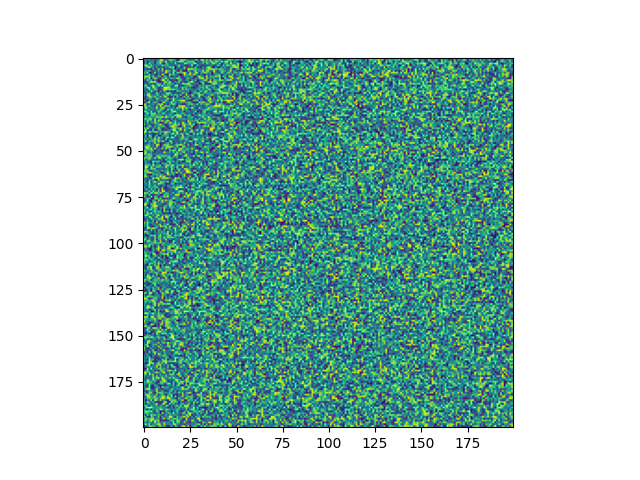
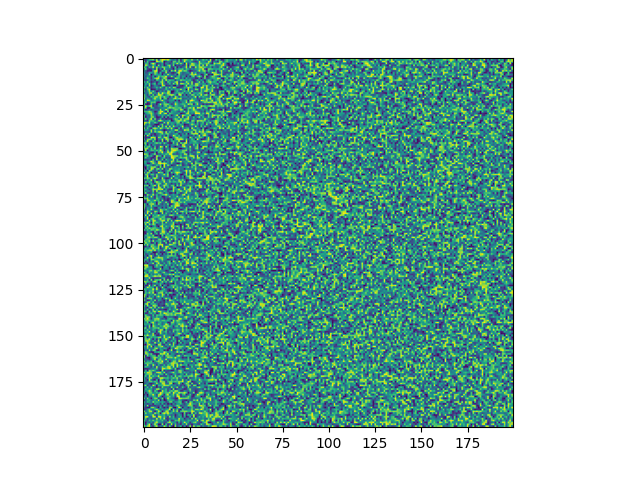
added basic initial mexican hat input class and plotting

diff --git a/RNN_Class.py b/RNN_Class.py
@@ -148,6 +148,35 @@ class ElmanRNN_pred(nn.Module):
         self.tanh = nn.Tanh()
         self.act = nn.Softmax(2)  # activation functions
 
+        # initialize to mexican hat
+        self.init_mexican_hat_weights()
+
+    def mexican_hat_1d(self, size, sigma=1.0):
+        x = torch.linspace(-size // 2, size // 2, steps=size)
+        x2 = x**2
+        mh = (1 - x2 / sigma**2) * torch.exp(-x2 / (2 * sigma**2))  # shape: (size,)
+        return mh
+
+    def init_mexican_hat_weights(self):
+        # broadcast Mexican hat across rows or columns
+        with torch.no_grad():
+            # input weights
+            mh = self.mexican_hat_1d(self.input_dim).unsqueeze(
+                0
+            )  # shape: (1, input_dim)
+            self.input_linear.weight.copy_(mh.repeat(self.hidden_dim, 1))
+            self.input_linear.bias.zero_()
+
+            # hidden weights
+            mh = self.mexican_hat_1d(self.hidden_dim).unsqueeze(0)
+            self.hidden_linear.weight.copy_(mh.repeat(self.hidden_dim, 1))
+            self.hidden_linear.bias.zero_()
+
+            # output weights
+            mh = self.mexican_hat_1d(self.hidden_dim).unsqueeze(0)
+            self.linear3.weight.copy_(mh.repeat(self.output_dim, 1))
+            self.linear3.bias.zero_()
+
     def forward(self, x, h0):
         batch_size, SeqN, _ = x.shape
         ht = h0

diff --git a/Main.py b/Main.py
@@ -277,7 +277,7 @@ def main():
         print("Shape: ", net.input_linear.weight.shape)
         plt.figure()
         plt.imshow(net.input_linear.weight.detach().numpy())
-        plt.savefig("./figures/input_linear_weights.png")
+        plt.savefig("./figures/mh_input_linear_weights.png")
         print()
         # print("Input → Hidden bias:\n", net.input_linear.bias)
 
@@ -286,7 +286,7 @@ def main():
         print()
         plt.figure()
         plt.imshow(net.hidden_linear.weight.detach().numpy())
-        plt.savefig("./figures/hidden_linear_weights.png")
+        plt.savefig("./figures/mh_hidden_linear_weights.png")
         # print("Hidden → Hidden bias:\n", net.hidden_linear.bias)
 
         print("Hidden → Output weights:\n", net.linear3.weight)
@@ -294,7 +294,7 @@ def main():
         print()
         plt.figure()
         plt.imshow(net.linear3.weight.detach().numpy())
-        plt.savefig("./figures/output_linear_weights.png")
+        plt.savefig("./figures/mh_output_linear_weights.png")
         # print("Hidden → Output bias:\n", net.linear3.bias)
         quit()
     if args.pred and args.Hregularized:
